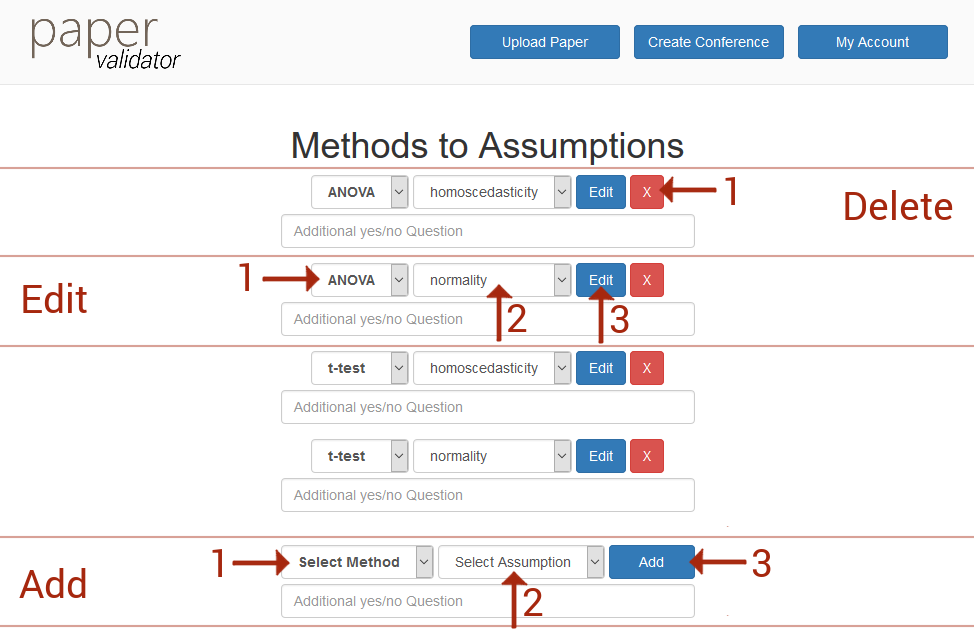
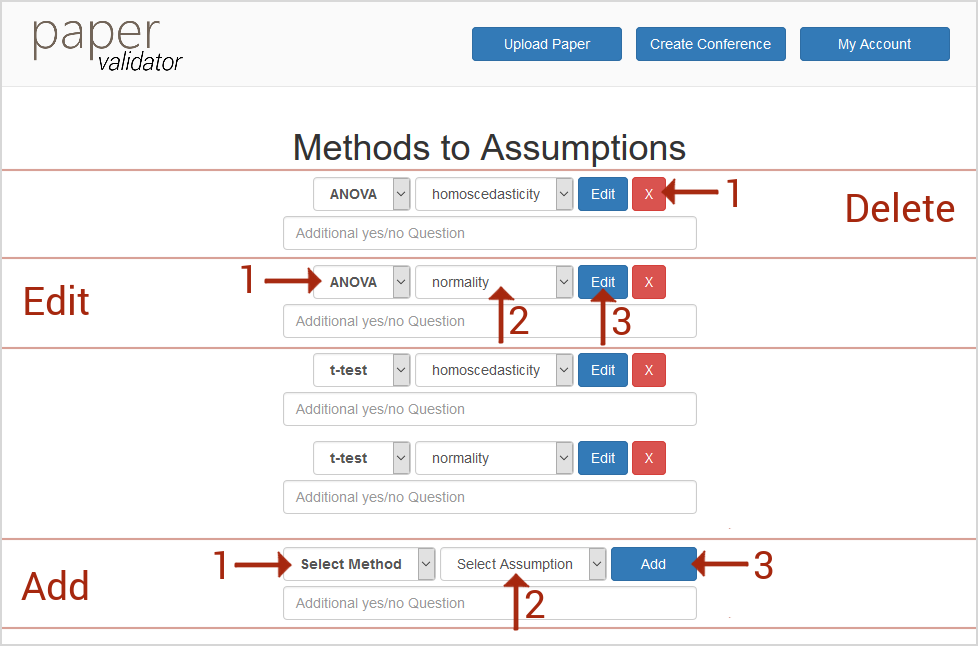
Add Image Border, Fix one IMG URL

diff --git a/README.md b/README.md
@@ -156,8 +156,8 @@ The three method-assumption validation settings pages, which are at the top of t
 
 Whenever an author or conference chair loses the email with the link to a publication or conference, there is the option of resending the link respectively sending the link to the my account page (Figure 11) by submitting the email address via the my account form (Figure 10). It is to notice that the link is sent maximally once a day to prevent spam.
 
-<a href="https://raw.githubusercontent.com/manuelroesch/PaperValidator/master/public/images/help/my-account.png" target="_blank">
-<img src="https://raw.githubusercontent.com/manuelroesch/PaperValidator/master/public/images/help/my-account.png" width="500">
+<a href="https://raw.githubusercontent.com/manuelroesch/PaperValidator/master/public/images/help/my-account-link.png" target="_blank">
+<img src="https://raw.githubusercontent.com/manuelroesch/PaperValidator/master/public/images/help/my-account-link.png" width="500">
 </a><br><sup>Figure 10: Get your account link via the my account form.</sup>
 
 The my account page (Figure 11) contains the uploaded PDFs as well as the created conferences from a particular email address. You can either get to the result overview page (Figure 4) or to the converence overview page by clicking on the according link.
